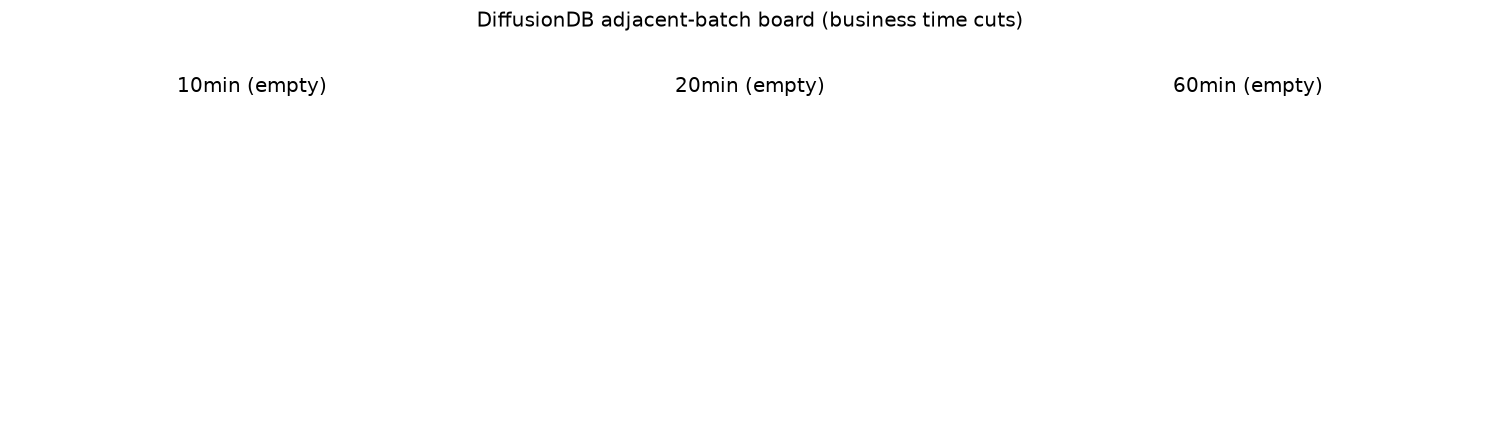
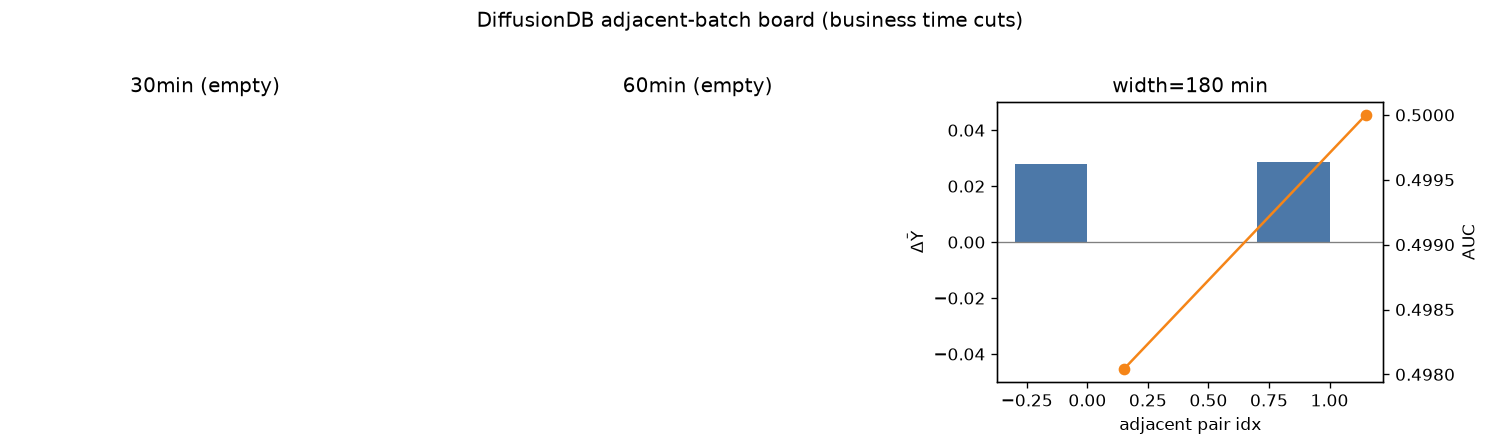
fix(diffusiondb): adjacent board uses consecutive occupied bins

diff --git a/scripts/run_diffusiondb_adjacent_board.py b/scripts/run_diffusiondb_adjacent_board.py
@@ -45,9 +45,17 @@ def _assign_width_minutes(df: pd.DataFrame, width_min: float) -> pd.DataFrame:
     return out
 
 
-def _adjacent_pairs(T: np.ndarray) -> List[tuple[int, int]]:
+def _adjacent_pairs(T: np.ndarray, *, require_calendar_adjacent: bool = False) -> List[tuple[int, int]]:
+    """Pairs of consecutive *occupied* bins (business adjacent batches).
+
+    By default we walk sorted occupied T values (t_(i), t_(i+1)), so gaps from
+    subsampling do not empty the board. Set require_calendar_adjacent=True to
+    keep only literal T and T+1.
+    """
     occupied = sorted(int(t) for t in np.unique(T))
-    return [(a, b) for a, b in zip(occupied[:-1], occupied[1:]) if b == a + 1]
+    if require_calendar_adjacent:
+        return [(a, b) for a, b in zip(occupied[:-1], occupied[1:]) if b == a + 1]
+    return list(zip(occupied[:-1], occupied[1:]))
 
 
 def run_width_board(
@@ -73,13 +81,15 @@ def run_width_board(
     T = df_w["T"].to_numpy(int)
     Y = df_w["image_nsfw"].to_numpy(float)
     pairs = _adjacent_pairs(T)
-    if max_pairs > 0:
-        pairs = pairs[:max_pairs]
+    if max_pairs > 0 and len(pairs) > max_pairs:
+        # evenly subsample pairs along the timeline for the board
+        idx = np.linspace(0, len(pairs) - 1, num=max_pairs, dtype=int)
+        pairs = [pairs[i] for i in idx]
 
     rows = []
     for t0, t1 in pairs:
         m0, m1 = T == t0, T == t1
-        if m0.sum() < 40 or m1.sum() < 40:
+        if m0.sum() < 25 or m1.sum() < 25:
             continue
         y0, y1 = Y[m0], Y[m1]
         delta = float(y1.mean() - y0.mean())

diff --git a/results/diffusiondb_adjacent_board/ADJACENT_BOARD.md b/results/diffusiondb_adjacent_board/ADJACENT_BOARD.md
@@ -4,21 +4,23 @@ Business time cuts → adjacent batch FS → joint board. Not a new estimator; v
 
 ![board](adjacent_board.png)
 
-## width = 10 min
-- bins=1483, adjacent_pairs=8, reported=0
-
-| t0→t1 | n0/n1 | ΔȲ | HGB AUC | top_fsds |
-|---|---|---:|---:|---|
-
-## width = 20 min
-- bins=913, adjacent_pairs=8, reported=0
+## width = 30 min
+- bins=647, adjacent_pairs=10, reported=0
 
 | t0→t1 | n0/n1 | ΔȲ | HGB AUC | top_fsds |
 |---|---|---:|---:|---|
 
 ## width = 60 min
-- bins=328, adjacent_pairs=8, reported=0
+- bins=328, adjacent_pairs=10, reported=0
 
 | t0→t1 | n0/n1 | ΔȲ | HGB AUC | top_fsds |
 |---|---|---:|---:|---|
+
+## width = 180 min
+- bins=110, adjacent_pairs=10, reported=2
+
+| t0→t1 | n0/n1 | ΔȲ | HGB AUC | top_fsds |
+|---|---|---:|---:|---|
+| 1→2 | 54/47 | 0.0278 | 0.498 | with, by, face |
+| 6→7 | 48/43 | 0.0286 | 0.500 | very, 4k, concept |
 
